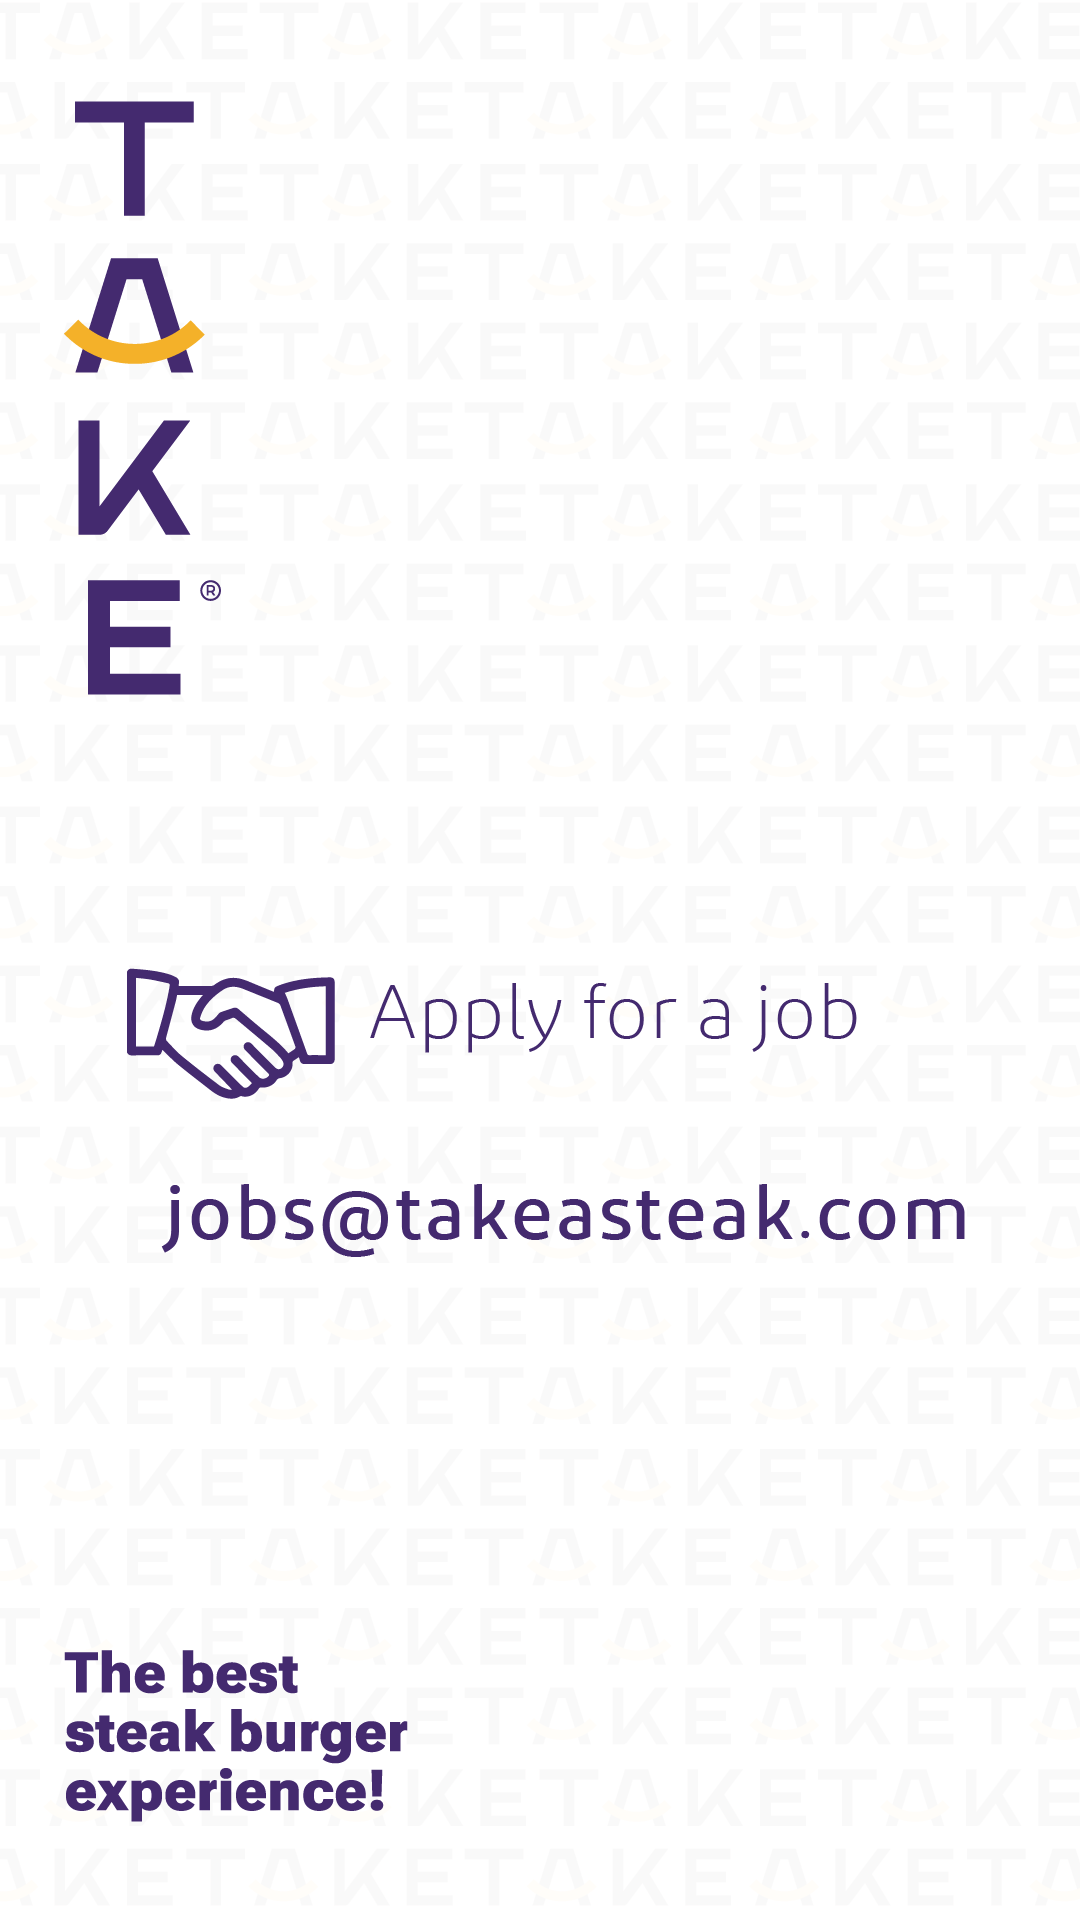
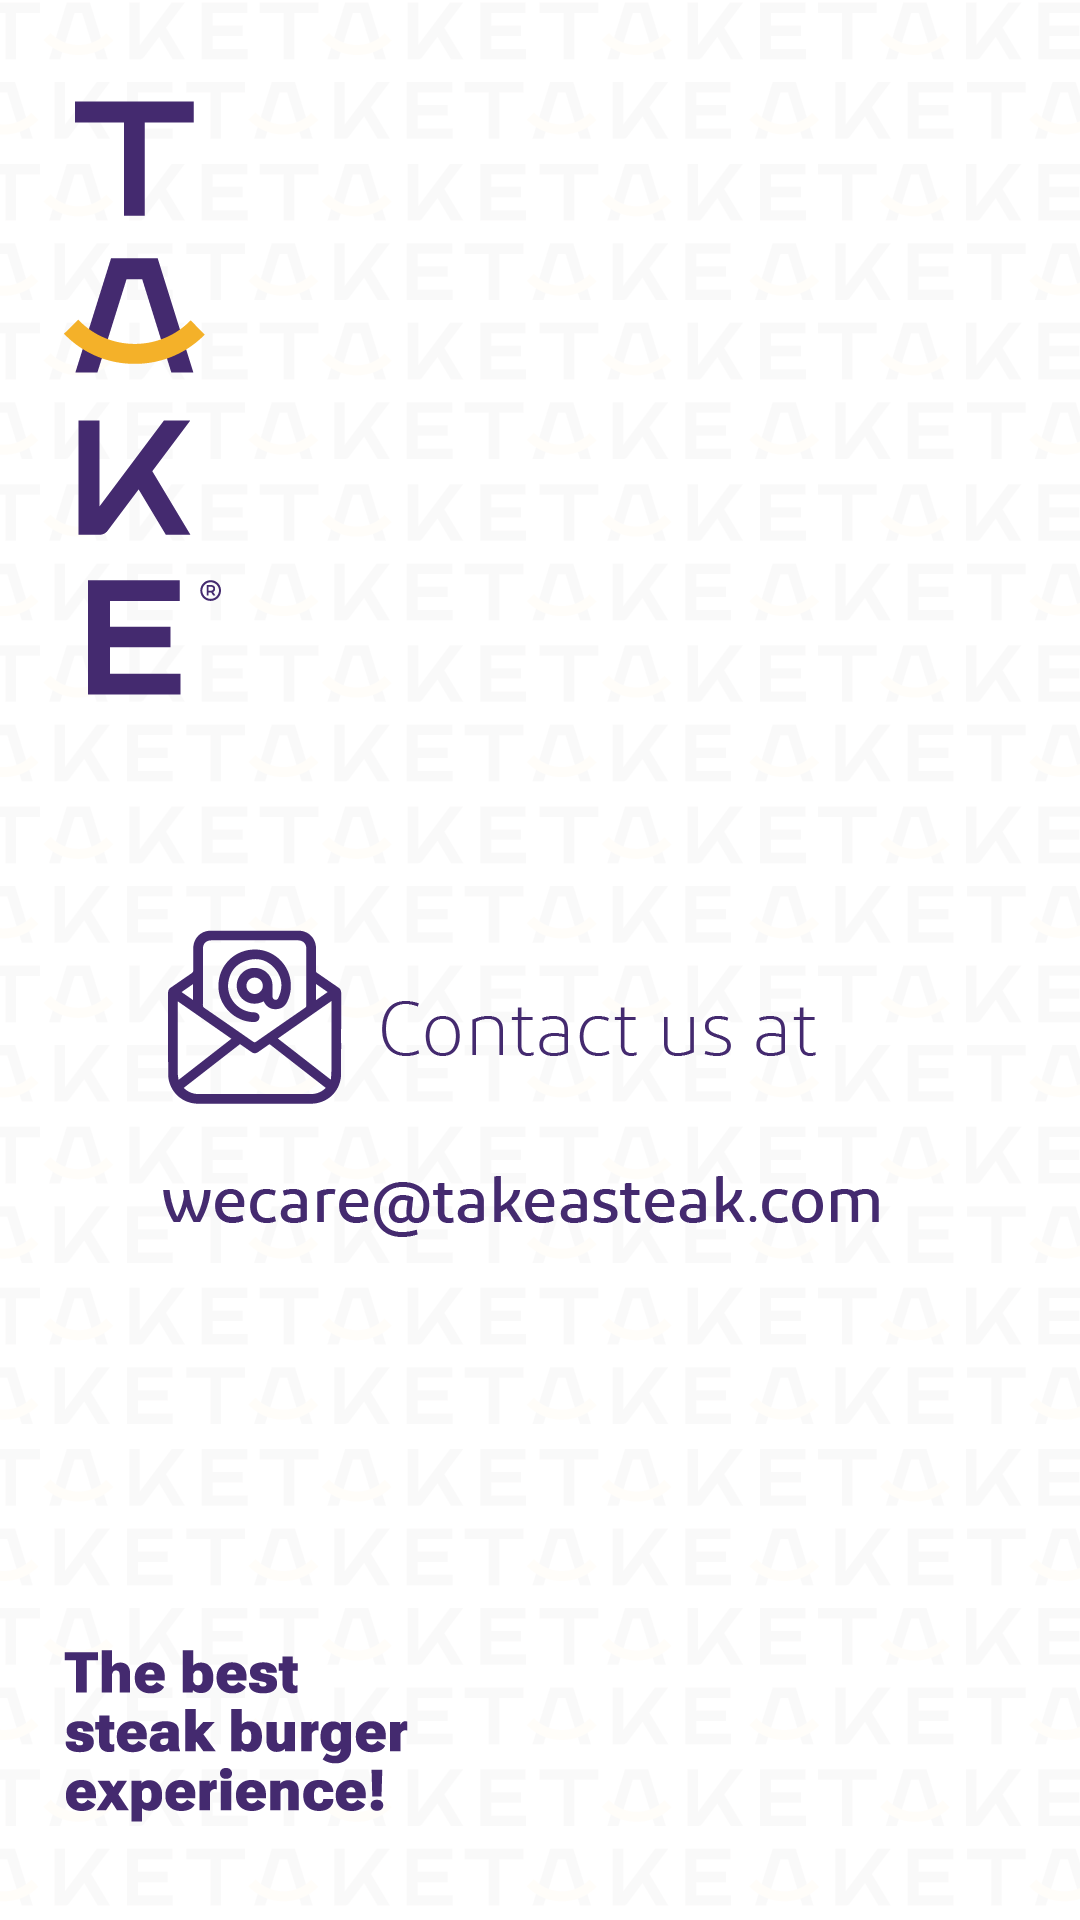
first commit

Changed region(s): [[0.0917, 0.4688, 0.9167, 0.6562], [0.7028, 0.5, 0.7944, 0.5625]]

diff --git a/css/style.css b/css/style.css
@@ -1,2 +1,2 @@
-footer .footer-companies ul li .icon{display:-webkit-box;display:-ms-flexbox;display:flex;-webkit-box-align:center;-ms-flex-align:center;align-items:center;-webkit-box-pack:center;-ms-flex-pack:center;justify-content:center}.btn:focus,.btn-close:focus{-webkit-box-shadow:none;box-shadow:none;outline:none}dl,ol,ul{padding:0;-webkit-padding-start:20px;padding-inline-start:20px}.modal-backdrop.show{opacity:.7}a{text-decoration:none}::-moz-selection{color:#fff;background:#141215}::selection{color:#fff;background:#141215}.main-title{margin-bottom:2rem;position:relative}.main-title .sub-title{font-size:20px;font-weight:700;padding:17px 35px;color:#f5b124;position:relative;z-index:1;display:inline-block;margin-bottom:20px;text-transform:capitalize}.main-title .sub-title::after{position:absolute;content:"";width:100%;left:0;background:url(../images/icons/border-1.png) no-repeat;background-size:100% 100%;z-index:-1;background-position:bottom;top:auto;bottom:0;height:100%}.main-title h2{font-size:2.2em;color:#141215;opacity:.7;position:relative;text-transform:uppercase;font-weight:700;margin-bottom:0;padding-bottom:15px}.main-title p{max-width:770px;margin:auto;line-height:1.8;color:#555e69}.main-title p a{color:#f5b124}#toTop{position:fixed;right:15px;bottom:15px;margin:0;z-index:99;display:none}#toTop button{background-color:#f5b124;width:40px;height:40px;border:none;color:#fff;border-radius:5px}.preloader{position:fixed;z-index:999;top:0;height:100%;width:100%;background-color:#f5b124;display:-webkit-box;display:-ms-flexbox;display:flex;-webkit-box-align:center;-ms-flex-align:center;align-items:center;-webkit-box-pack:center;-ms-flex-pack:center;justify-content:center}.preloader img{max-width:250px}@font-face{font-family:GE_Hili_Book;src:url(../webfonts/GE_Hili_Book.otf)}.main-wrapper{width:100%;overflow:hidden}body{font-family:"GE_Hili_Book",sans-serif}body .main-wrapper{overflow-x:hidden;background-image:url(../images/pattern1.png);background-repeat:repeat;position:relative;width:100%}section.main{padding:0 0 50px}section.main .main-title{text-align:center;padding:15px 0}section.main .main-title img{width:550px}section.main .content{display:-webkit-box;display:-ms-flexbox;display:flex;-ms-flex-wrap:wrap;flex-wrap:wrap;-ms-flex-pack:distribute;justify-content:space-around}section.main .content .company-box{text-align:center;padding:30px;-webkit-transition:all ease .3s;-o-transition:all ease .3s;transition:all ease .3s;position:relative;cursor:pointer;width:33.3333333333%}section.main .content .company-box:hover{-webkit-transform:translate(0, -5px);-ms-transform:translate(0, -5px);transform:translate(0, -5px);-webkit-box-shadow:0 .1rem 0 0 #f5b124,0 .1rem 0 0 #f5b124;box-shadow:0 .1rem 0 0 #f5b124,0 .1rem 0 0 #f5b124;border-color:rgba(0,0,0,0)}section.main .content .company-box .image{width:150px;height:150px;background-color:#442a6f;border-radius:50%;margin:auto;margin-bottom:20px;display:-webkit-box;display:-ms-flexbox;display:flex;-webkit-box-align:center;-ms-flex-align:center;align-items:center;-webkit-box-pack:center;-ms-flex-pack:center;justify-content:center}section.main .content .company-box .title h2{font-size:20px;color:#442a6f;-webkit-transition:all ease .3s;-o-transition:all ease .3s;transition:all ease .3s;text-transform:capitalize}section.main .content .company-box .title h2:hover{color:#f5b124}section.main .social-media{text-align:center;padding-top:50px}section.main .social-media h2{text-transform:uppercase;margin-bottom:25px;font-weight:600;color:#442a6f;line-height:1.7}section.main .social-media h2::after{content:"";display:block;width:150px;height:2px;background-color:#f5b124;margin:auto}section.main .social-media .icons a{color:#442a6f;font-size:50px;margin:0 5px;-webkit-transition:all ease .3s;-o-transition:all ease .3s;transition:all ease .3s;margin:10px 15px}section.main .social-media .icons a:hover{color:#f5b124}footer{background-color:rgba(0,0,0,0)}footer .content{display:-webkit-box;display:-ms-flexbox;display:flex;-webkit-box-pack:justify;-ms-flex-pack:justify;justify-content:space-between;-webkit-box-align:center;-ms-flex-align:center;align-items:center}footer .content .footer-logo{width:200px}footer .footer-companies ul{padding:0;margin:0}footer .footer-companies ul li{list-style:none;margin-bottom:10px;display:-webkit-box;display:-ms-flexbox;display:flex}footer .footer-companies ul li .icon{width:25px;height:25px;border-radius:50%;background-color:#fff;-webkit-margin-end:10px;margin-inline-end:10px}footer .footer-companies ul li img{width:20px}footer .footer-companies ul li:last-of-type{margin-bottom:0}footer .footer-companies ul li a{color:#fff;-webkit-transition:all ease .3s;-o-transition:all ease .3s;transition:all ease .3s}footer .footer-companies ul li a:hover{color:#f5b124}.copyrights{padding:0 0 15px 0;text-align:center}.copyrights p{margin-bottom:0;color:#442a6f;text-transform:capitalize}@media screen and (max-width: 991px){section.main .content .company-box{width:50%}}@media screen and (max-width: 670px){footer .content{display:block}footer .content .footer-companies ul{margin-bottom:25px}}@media screen and (max-width: 500px){section.main .main-title img{width:325px}section.main .content .company-box{padding:10px}section.main .content .company-box .title h2{font-size:18px}section.main .content .company-box .image{width:90px;height:90px}}
+footer .footer-companies ul li .icon{display:-webkit-box;display:-ms-flexbox;display:flex;-webkit-box-align:center;-ms-flex-align:center;align-items:center;-webkit-box-pack:center;-ms-flex-pack:center;justify-content:center}.btn:focus,.btn-close:focus{-webkit-box-shadow:none;box-shadow:none;outline:none}dl,ol,ul{padding:0;-webkit-padding-start:20px;padding-inline-start:20px}.modal-backdrop.show{opacity:.7}a{text-decoration:none}::-moz-selection{color:#fff;background:#141215}::selection{color:#fff;background:#141215}.main-title{margin-bottom:2rem;position:relative}.main-title .sub-title{font-size:20px;font-weight:700;padding:17px 35px;color:#f5b124;position:relative;z-index:1;display:inline-block;margin-bottom:20px;text-transform:capitalize}.main-title .sub-title::after{position:absolute;content:"";width:100%;left:0;background:url(../images/icons/border-1.png) no-repeat;background-size:100% 100%;z-index:-1;background-position:bottom;top:auto;bottom:0;height:100%}.main-title h2{font-size:2.2em;color:#141215;opacity:.7;position:relative;text-transform:uppercase;font-weight:700;margin-bottom:0;padding-bottom:15px}.main-title p{max-width:770px;margin:auto;line-height:1.8;color:#555e69}.main-title p a{color:#f5b124}#toTop{position:fixed;right:15px;bottom:15px;margin:0;z-index:99;display:none}#toTop button{background-color:#f5b124;width:40px;height:40px;border:none;color:#fff;border-radius:5px}.preloader{position:fixed;z-index:999;top:0;height:100%;width:100%;background-color:#f5b124;display:-webkit-box;display:-ms-flexbox;display:flex;-webkit-box-align:center;-ms-flex-align:center;align-items:center;-webkit-box-pack:center;-ms-flex-pack:center;justify-content:center}.preloader img{max-width:250px}@font-face{font-family:GE_Hili_Book;src:url(../webfonts/GE_Hili_Book.otf)}.main-wrapper{width:100%;overflow:hidden}body{font-family:"GE_Hili_Book",sans-serif}body .main-wrapper{overflow-x:hidden;background-image:url(../images/pattern1.png);background-repeat:repeat;background-size:contain;position:relative;width:100%}section.main{padding:0 0 50px}section.main .main-title{text-align:center;padding:15px 0}section.main .main-title img{width:550px}section.main .content{display:-webkit-box;display:-ms-flexbox;display:flex;-ms-flex-wrap:wrap;flex-wrap:wrap;-ms-flex-pack:distribute;justify-content:space-around}section.main .content .company-box{text-align:center;padding:30px;-webkit-transition:all ease .3s;-o-transition:all ease .3s;transition:all ease .3s;position:relative;cursor:pointer;width:33.3333333333%}section.main .content .company-box:hover{-webkit-transform:translate(0, -5px);-ms-transform:translate(0, -5px);transform:translate(0, -5px);-webkit-box-shadow:0 .1rem 0 0 #f5b124,0 .1rem 0 0 #f5b124;box-shadow:0 .1rem 0 0 #f5b124,0 .1rem 0 0 #f5b124;border-color:rgba(0,0,0,0)}section.main .content .company-box .image{width:150px;height:150px;background-color:#442a6f;border-radius:50%;margin:auto;margin-bottom:20px;display:-webkit-box;display:-ms-flexbox;display:flex;-webkit-box-align:center;-ms-flex-align:center;align-items:center;-webkit-box-pack:center;-ms-flex-pack:center;justify-content:center}section.main .content .company-box .title h2{font-size:20px;color:#442a6f;-webkit-transition:all ease .3s;-o-transition:all ease .3s;transition:all ease .3s;text-transform:capitalize}section.main .content .company-box .title h2:hover{color:#f5b124}section.main .social-media{text-align:center;padding-top:50px}section.main .social-media h2{text-transform:uppercase;margin-bottom:25px;font-weight:600;color:#442a6f;line-height:1.7}section.main .social-media h2::after{content:"";display:block;width:150px;height:2px;background-color:#f5b124;margin:auto}section.main .social-media .icons a{color:#442a6f;font-size:50px;margin:0 5px;-webkit-transition:all ease .3s;-o-transition:all ease .3s;transition:all ease .3s;margin:10px 15px}section.main .social-media .icons a:hover{color:#f5b124}footer{background-color:rgba(0,0,0,0)}footer .content{display:-webkit-box;display:-ms-flexbox;display:flex;-webkit-box-pack:justify;-ms-flex-pack:justify;justify-content:space-between;-webkit-box-align:center;-ms-flex-align:center;align-items:center}footer .content .footer-logo{width:200px}footer .footer-companies ul{padding:0;margin:0}footer .footer-companies ul li{list-style:none;margin-bottom:10px;display:-webkit-box;display:-ms-flexbox;display:flex}footer .footer-companies ul li .icon{width:25px;height:25px;border-radius:50%;background-color:#fff;-webkit-margin-end:10px;margin-inline-end:10px}footer .footer-companies ul li img{width:20px}footer .footer-companies ul li:last-of-type{margin-bottom:0}footer .footer-companies ul li a{color:#fff;-webkit-transition:all ease .3s;-o-transition:all ease .3s;transition:all ease .3s}footer .footer-companies ul li a:hover{color:#f5b124}.copyrights{padding:0 0 15px 0;text-align:center}.copyrights p{margin-bottom:0;color:#442a6f;text-transform:capitalize}@media screen and (max-width: 991px){section.main .content .company-box{width:50%}}@media screen and (max-width: 670px){footer .content{display:block}footer .content .footer-companies ul{margin-bottom:25px}}@media screen and (max-width: 500px){section.main .main-title img{width:325px}section.main .content .company-box{padding:10px}section.main .content .company-box .title h2{font-size:18px}section.main .content .company-box .image{width:90px;height:90px}}
 /*# sourceMappingURL=style.css.map */

diff --git a/index.html b/index.html
@@ -52,19 +52,24 @@
                   <h2>working hours</h2>
                 </div></a></div>
             <div class="company-box"><a data-src="images/categories/05.png" data-fancybox=""> 
-                <div class="image"><img class="img-fluid" src="images/icons/05.png" alt="careers"></div>
+                <div class="image"><img class="img-fluid" src="images/icons/05.png" alt="delivery app"></div>
+                <div class="title">
+                  <h2>delivery app</h2>
+                </div></a></div>
+            <div class="company-box"><a data-src="images/categories/06.png" data-fancybox=""> 
+                <div class="image"><img class="img-fluid" src="images/icons/06.png" alt="careers"></div>
                 <div class="title">
                   <h2>careers</h2>
                 </div></a></div>
-            <div class="company-box"><a data-src="images/categories/06.png" data-fancybox=""> 
-                <div class="image"><img class="img-fluid" src="images/icons/06.png" alt="contact us"></div>
+            <div class="company-box"><a data-src="images/categories/07.png" data-fancybox=""> 
+                <div class="image"><img class="img-fluid" src="images/icons/07.png" alt="contact us"></div>
                 <div class="title">
                   <h2>contact us</h2>
                 </div></a></div>
           </div>
           <div class="social-media">
             <h2>follow us on </h2>
-            <div class="icons"><a href="https://www.facebook.com/takeasteaks" target="_blank"><i class="fa-brands fa-facebook"> </i></a><a href="https://twitter.com/takeasteaks" target="_blank"><i class="fa-brands fa-twitter"> </i></a><a href="https://www.instagram.com/takeasteaks" target="_blank"><i class="fa-brands fa-instagram"> </i></a><a href="https://www.youtube.com/@takeasteaks" target="_blank"><i class="fa-brands fa-youtube"> </i></a><a href="https://www.tiktok.com/@takeasteaks" target="_blank"><i class="fa-brands fa-tiktok"> </i></a><a href="https://www.snapchat.com/add/takeasteaks" target="_blank"><i class="fa-brands fa-snapchat"> </i></a></div>
+            <div class="icons"><a href="https://www.instagram.com/takeasteaks" target="_blank"><i class="fa-brands fa-instagram"> </i></a><a href="https://twitter.com/takeasteaks" target="_blank"><i class="fa-brands fa-twitter"> </i></a><a href="https://www.tiktok.com/@takeasteaks" target="_blank"><i class="fa-brands fa-tiktok"> </i></a><a href="https://www.snapchat.com/add/takeasteaks" target="_blank"><i class="fa-brands fa-snapchat"> </i></a><a href="https://www.facebook.com/takeasteaks" target="_blank"><i class="fa-brands fa-facebook"> </i></a><a href="https://www.youtube.com/@takeasteaks" target="_blank"><i class="fa-brands fa-youtube"> </i></a></div>
           </div>
           <iframe src="https://www.google.com/maps/embed?pb=!1m18!1m12!1m3!1d3576.8020787748687!2d50.1980922!3d26.3005155!2m3!1f0!2f0!3f0!3m2!1i1024!2i768!4f13.1!3m3!1m2!1s0x3e49e97077c2d79d%3A0x9f7c0f2d2b53ab3d!2zVEFLRSBTdGVhayBCdXJnZXIgfCDYqtmK2YMg2LPYqtmK2YMg2KjYsdis2LE!5e0!3m2!1sen!2seg!4v1668318754020!5m2!1sen!2seg" width="100%" height="450" style="border:0; margin-top: 70px" allowfullscreen="" loading="lazy" referrerpolicy="no-referrer-when-downgrade"></iframe>
         </div>
